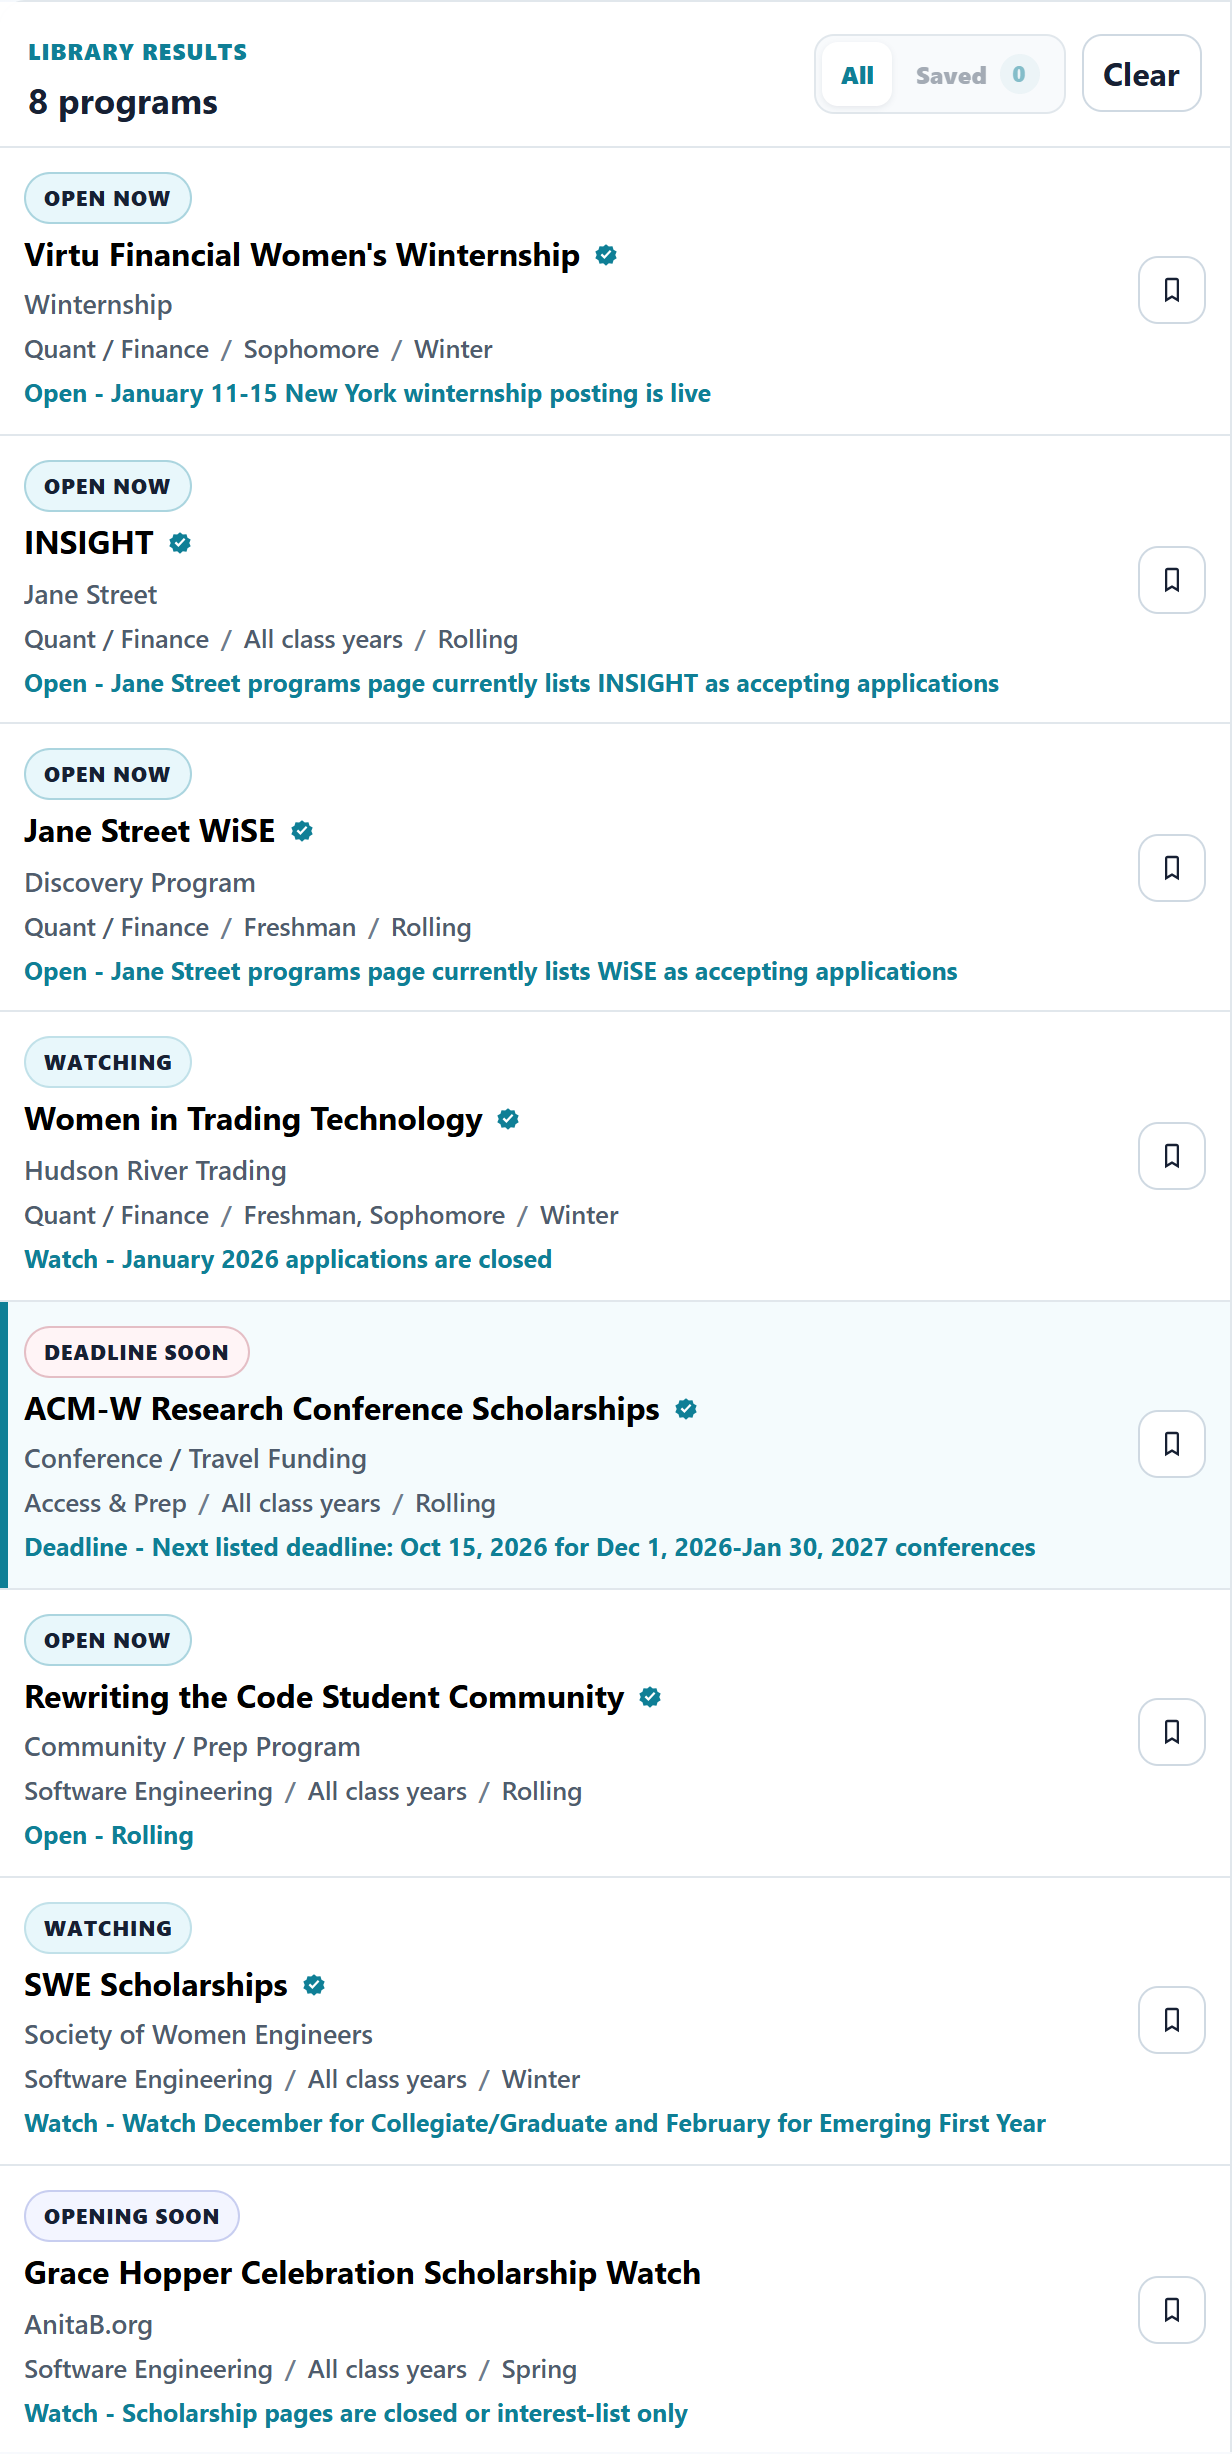
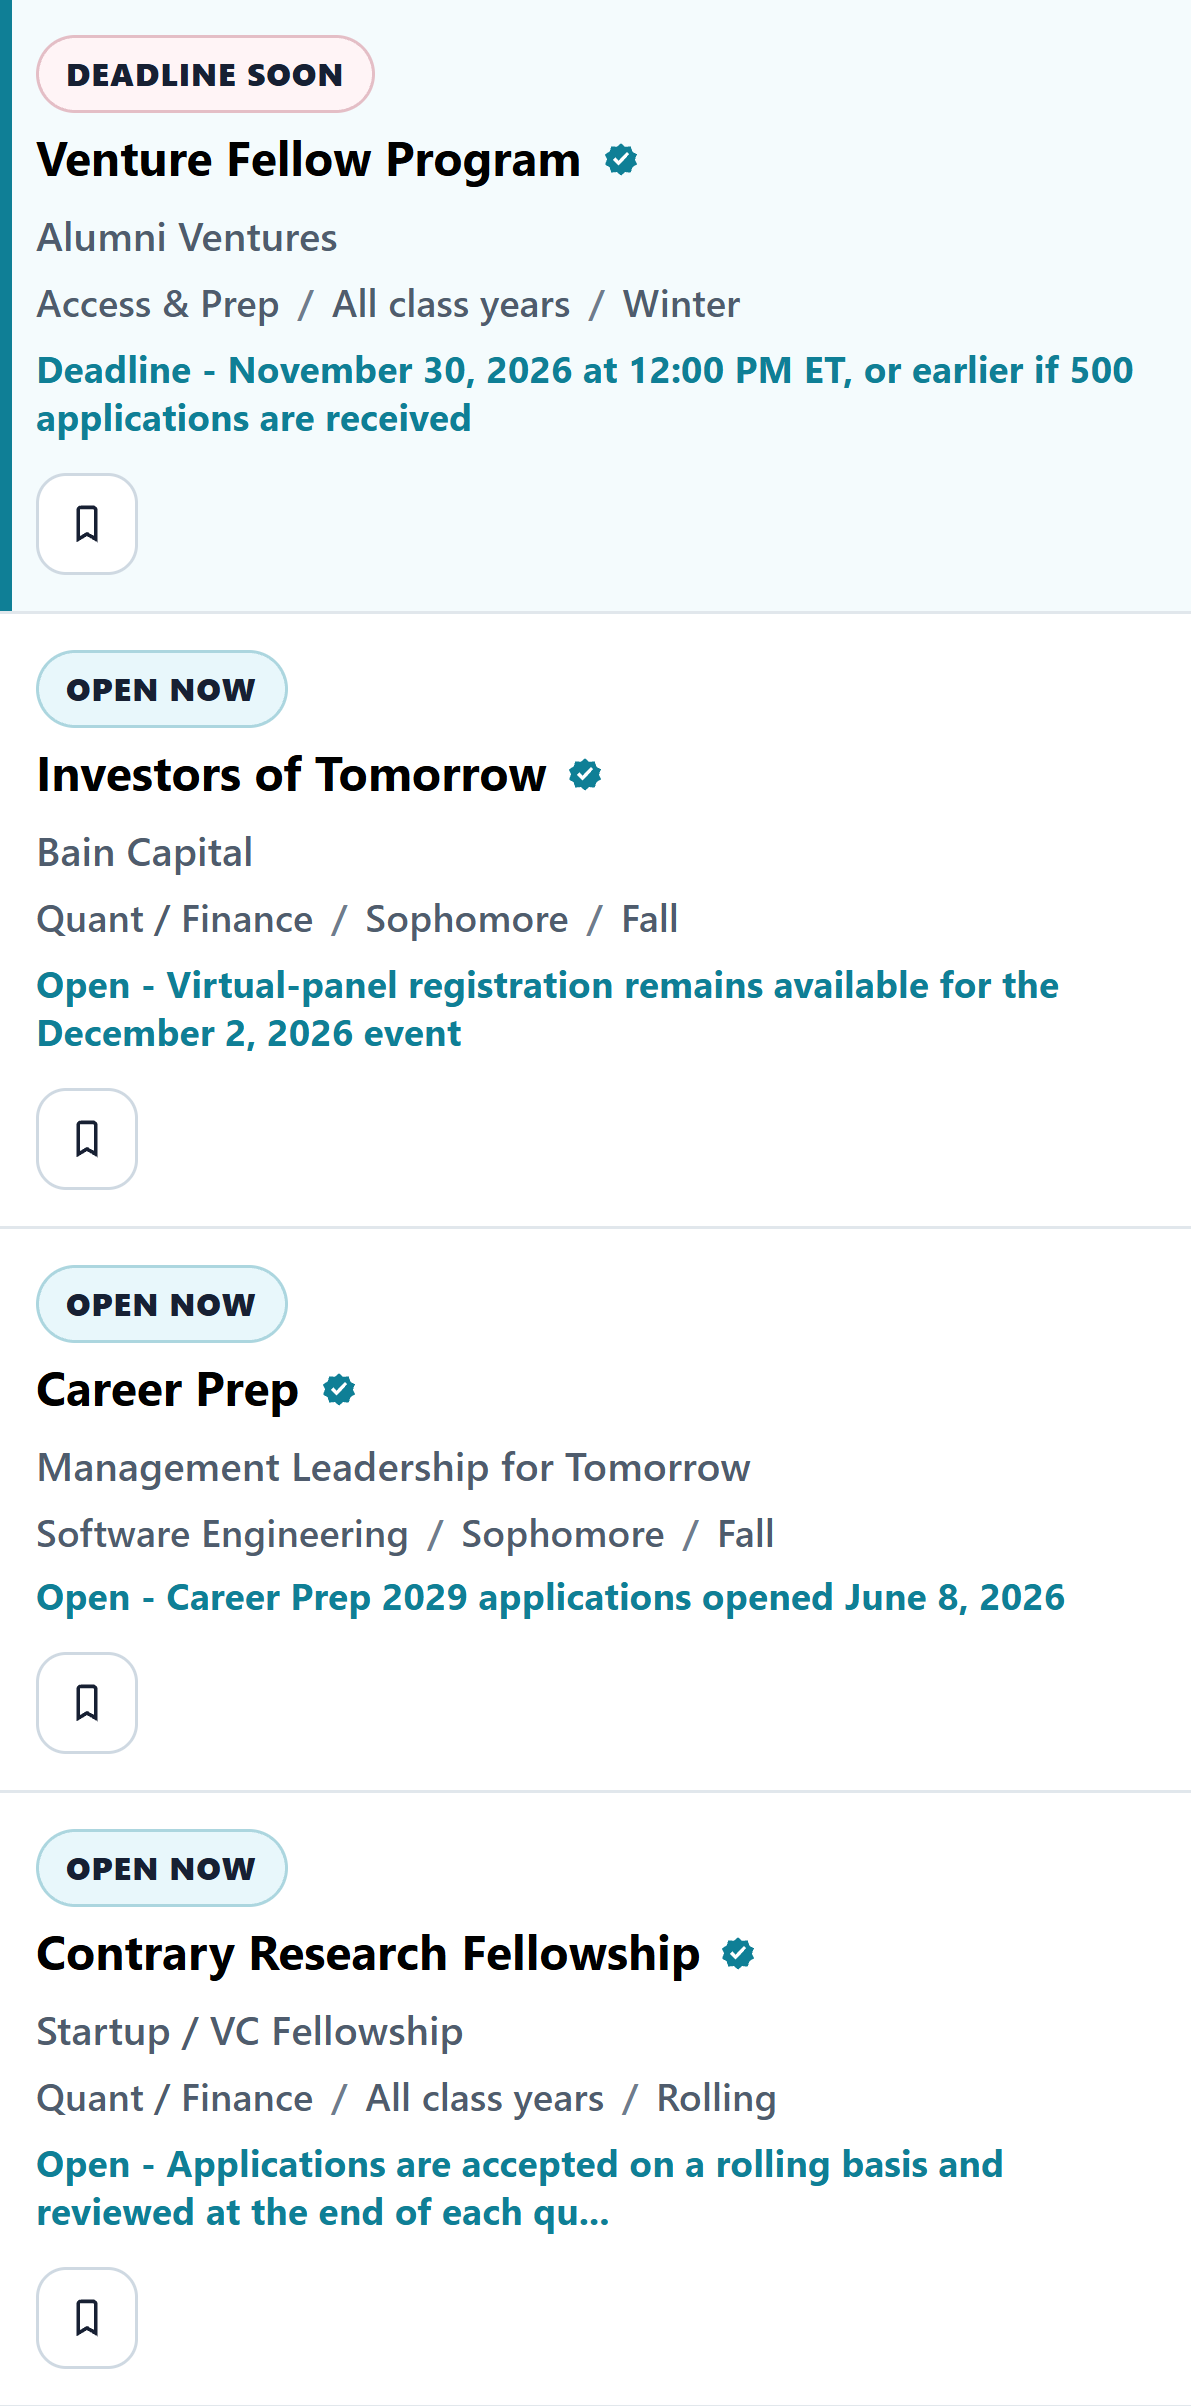
Refresh homepage Programs screenshots and align preview cards

diff --git a/src/styles.css b/src/styles.css
@@ -1001,9 +1001,9 @@ a {
 
 .product-preview-gallery {
   display: grid;
-  grid-template-columns: minmax(0, 1.38fr) minmax(280px, 0.62fr);
+  /* Each column follows its screenshot's width-to-height ratio. */
+  grid-template-columns: minmax(0, 1.44fr) minmax(0, 0.495fr);
   gap: 14px;
-  align-items: start;
 }
 
 .product-preview figure {
@@ -1021,11 +1021,6 @@ a {
   width: 100%;
   height: auto;
   background: var(--field);
-}
-
-.product-preview-status {
-  width: 100%;
-  max-width: 384px;
 }
 
 .product-preview figcaption {
@@ -1046,6 +1041,22 @@ a {
   font-size: 0.88rem;
   font-weight: 500;
   line-height: 1.42;
+}
+
+@media (max-width: 760px) {
+  .product-preview-gallery {
+    grid-template-columns: minmax(0, 1fr);
+  }
+
+  .product-preview-status {
+    display: grid;
+    grid-template-columns: 34.4% minmax(0, 1fr);
+    align-items: center;
+  }
+
+  .product-preview-status figcaption {
+    border-top: 0;
+  }
 }
 
 .landing-program-showcase {
@@ -7710,10 +7721,6 @@ a {
 
 @media (max-width: 1280px) {
   .product-preview-layout {
-    grid-template-columns: 1fr;
-  }
-
-  .product-preview-gallery {
     grid-template-columns: 1fr;
   }
 

diff --git a/src/main.jsx b/src/main.jsx
@@ -2735,7 +2735,7 @@ function PrivacyDataUsePage() {
 
 function ProductPreviewSection() {
   return (
-    <section className="product-preview" aria-label="ApplyFirst product preview">
+    <section id="product-preview" className="product-preview" aria-label="ApplyFirst product preview">
       <div className="product-preview-heading">
         <span>Product Preview</span>
         <h2>Know What It Is. Know If It's Time.</h2>
@@ -2760,9 +2760,9 @@ function ProductPreviewSection() {
           <figure className="product-preview-status">
             <img
               src={programStatusMixScreenshot}
-              alt="ApplyFirst program rows showing Open Now, Watching, Deadline Soon, and Opening Soon status examples."
-              width="1232"
-              height="2454"
+              alt="Four Programs results showing one Deadline Soon label and three Open Now labels."
+              width="1191"
+              height="2406"
               loading="lazy"
               decoding="async"
             />
